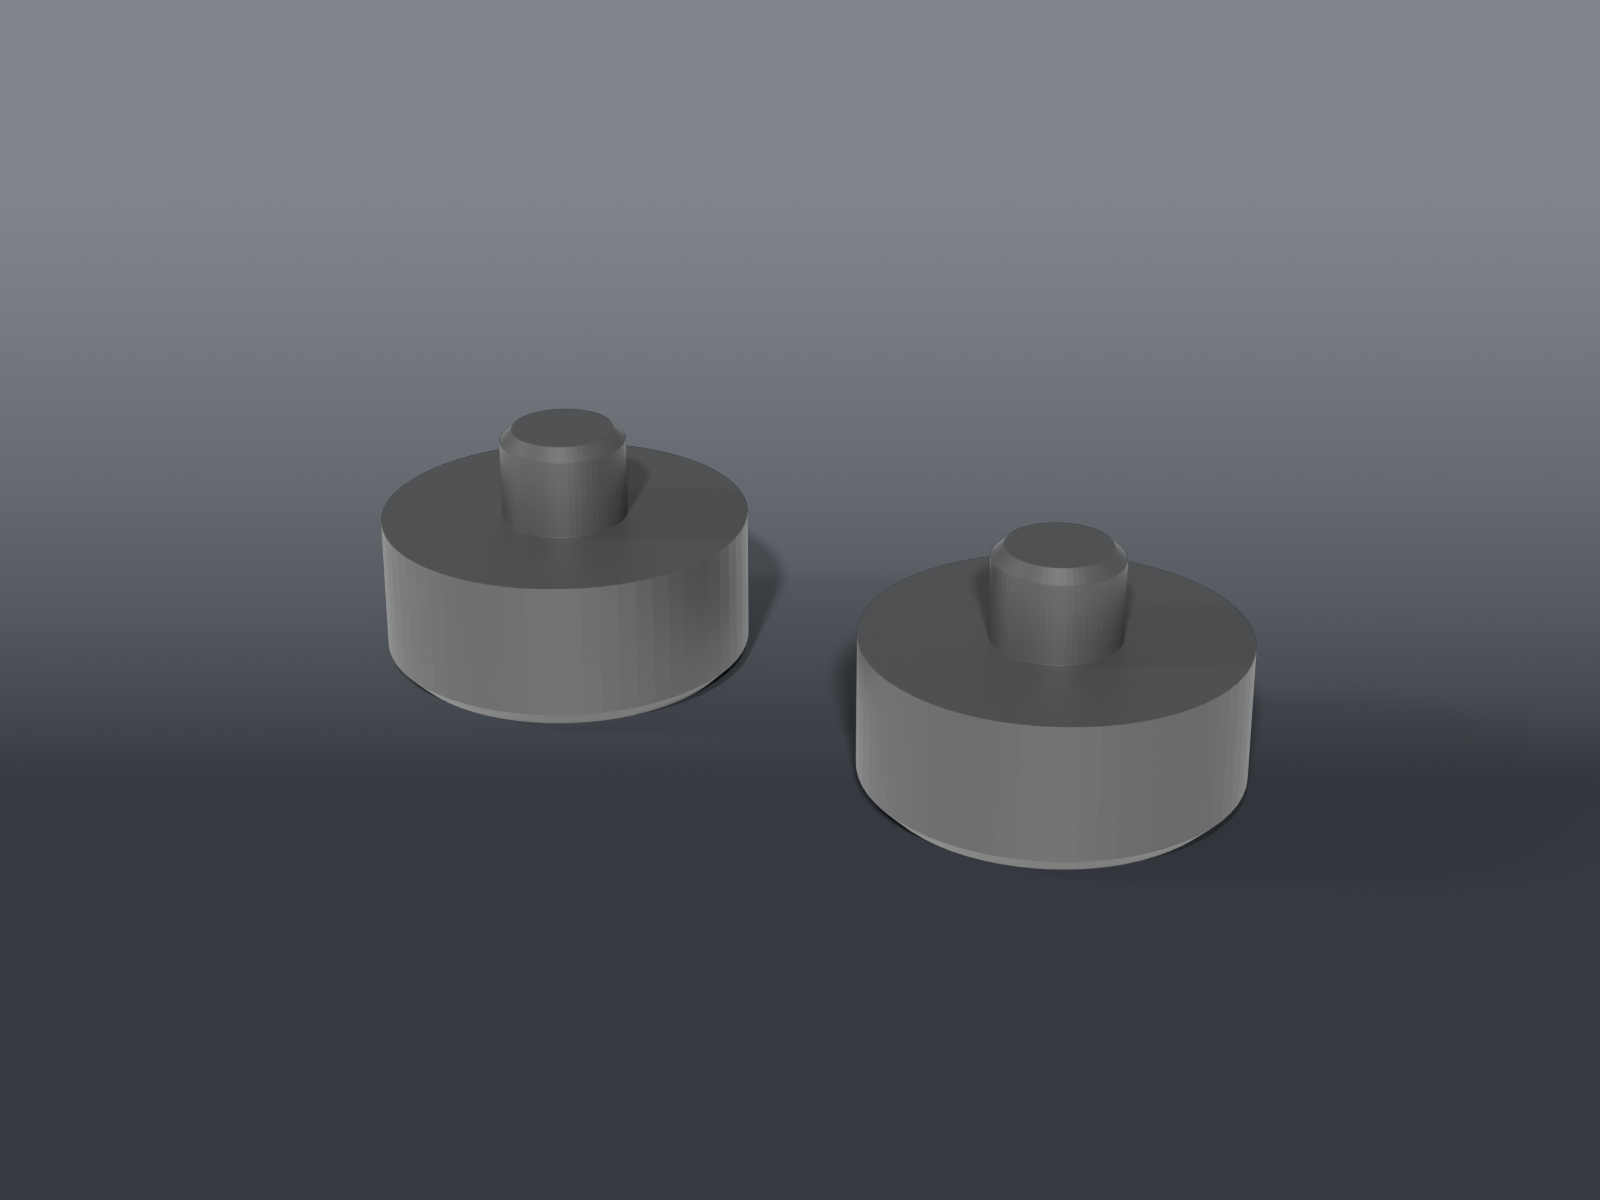
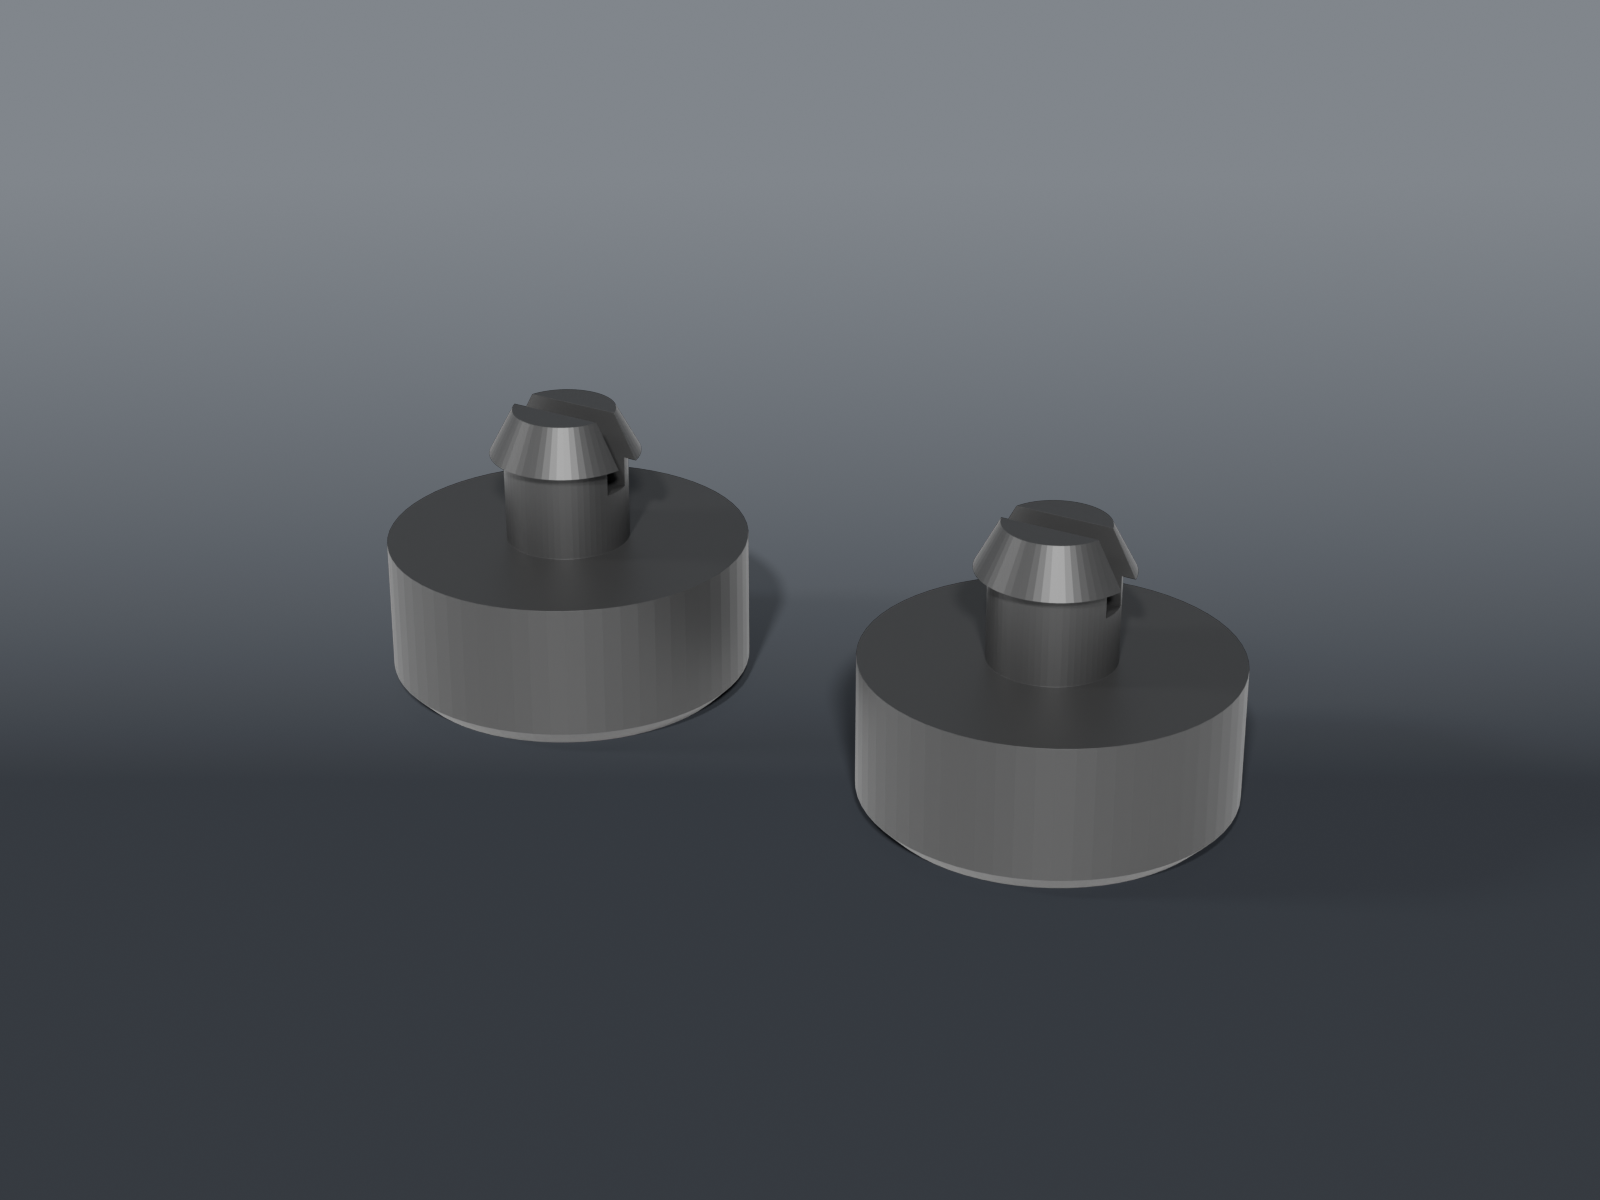
feat(helping-hands-feet): 5.0 barbed lip so the feet snap through and stay

diff --git a/helping-hands-feet/README.md b/helping-hands-feet/README.md
@@ -2,19 +2,21 @@
 
 ![Helping-hands plate feet](preview.png)
 
-**Pegged TPU replacement feet** for a helping-hands base plate that arrived with a foot missing. The stock feet are glued over two holes in the plate. These press into the holes instead, so no glue is needed and they come back out.
+**Pegged TPU replacement feet** for a helping-hands base plate that arrived with a foot missing. The stock feet are glued over two holes in the plate. These snap through the holes instead: a barbed lip on the end of the peg pops out the far side of the steel and catches, so they stay put without glue.
 
 ## Parts
 
 | Part | File | Size | Print |
 |---|---|---|---|
-| **Feet** | `helping_hands_feet.scad` | two feet, ⌀12 × 5 mm pad + ⌀4.1 × 3 mm peg | ×1 plate — **TPU 95A**, pads down, no supports |
+| **Feet** | `helping_hands_feet.scad` | two feet, ⌀12 × 5 mm pad + ⌀4.1 × 3 mm peg + ⌀5.0 slit barb | ×1 plate — **TPU 95A**, pads down, no supports |
 | Peg coupon | `coupons/peg_fit_coupon.scad` | pegs 3.8 / 3.9 / 4.0 / 4.1 | print first if your holes differ, ~1.3 g TPU |
+| Lip coupon | `coupons/lip_fit_coupon.scad` | lips 4.4 / 4.6 / 4.8 | print first if your plate is thicker or thinner, ~2 g TPU |
 
 ## Sized from the plate
 
 - **Hole:** 3.83 mm, calipered.
-- **Peg:** 4.1 mm. On the coupon, the 4.1 peg pressed into the 3.83 hole best: TPU squeezes in over the hole and grips. The peg is 3 mm long, and has a small chamfer at the tip so it finds the hole.
+- **Peg:** 4.1 mm. On the coupon, the 4.1 peg pressed into the 3.83 hole best. It's 3 mm long, just past the steel, which is a little under 3 mm thick.
+- **Lip:** a press fit alone fell out (v1.0.0), so the peg now ends in a barb. It tapers to ⌀3.4 so it finds the hole, then steps out to ⌀5.0 behind the plate. A slit across it lets the two halves fold in on the way through. The 4.8 lip on the coupon held, and 5.0 is one step firmer.
 - **Foot:** 5 mm tall with a ⌀12 pad, with a small chamfer on the bottom edge so it doesn't curl or catch.
 - **Two feet,** one per hole.
 
